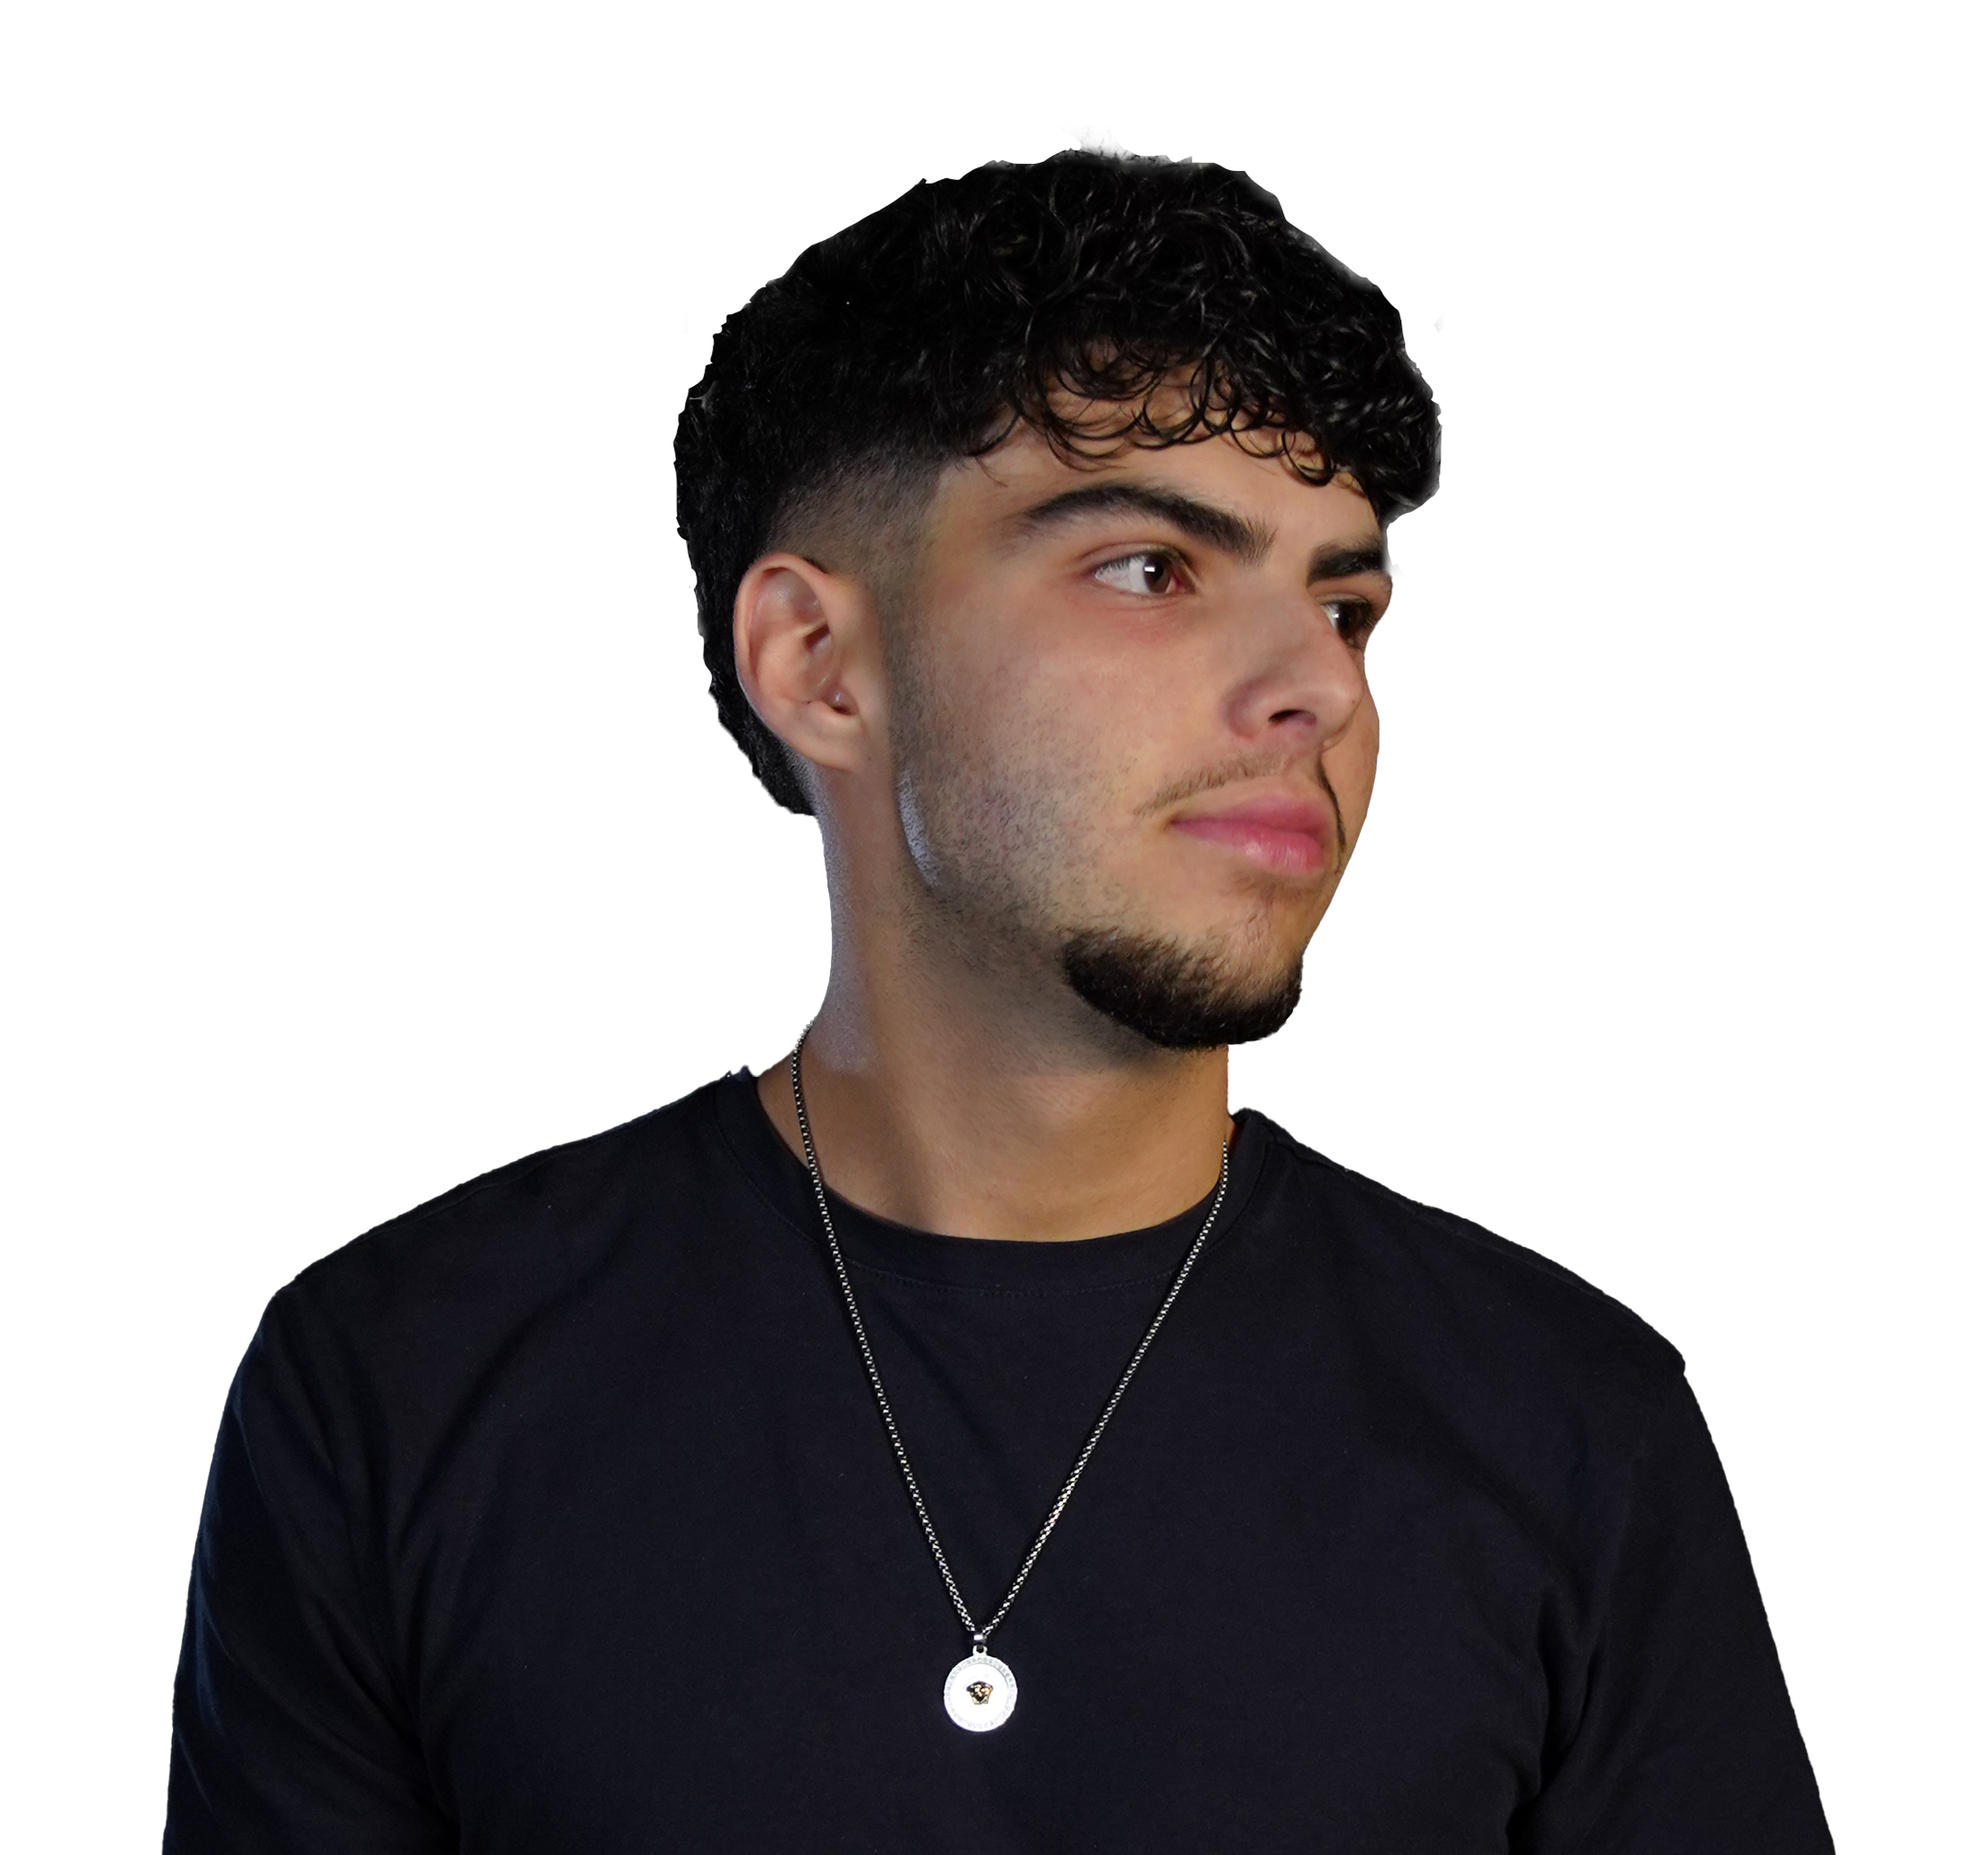
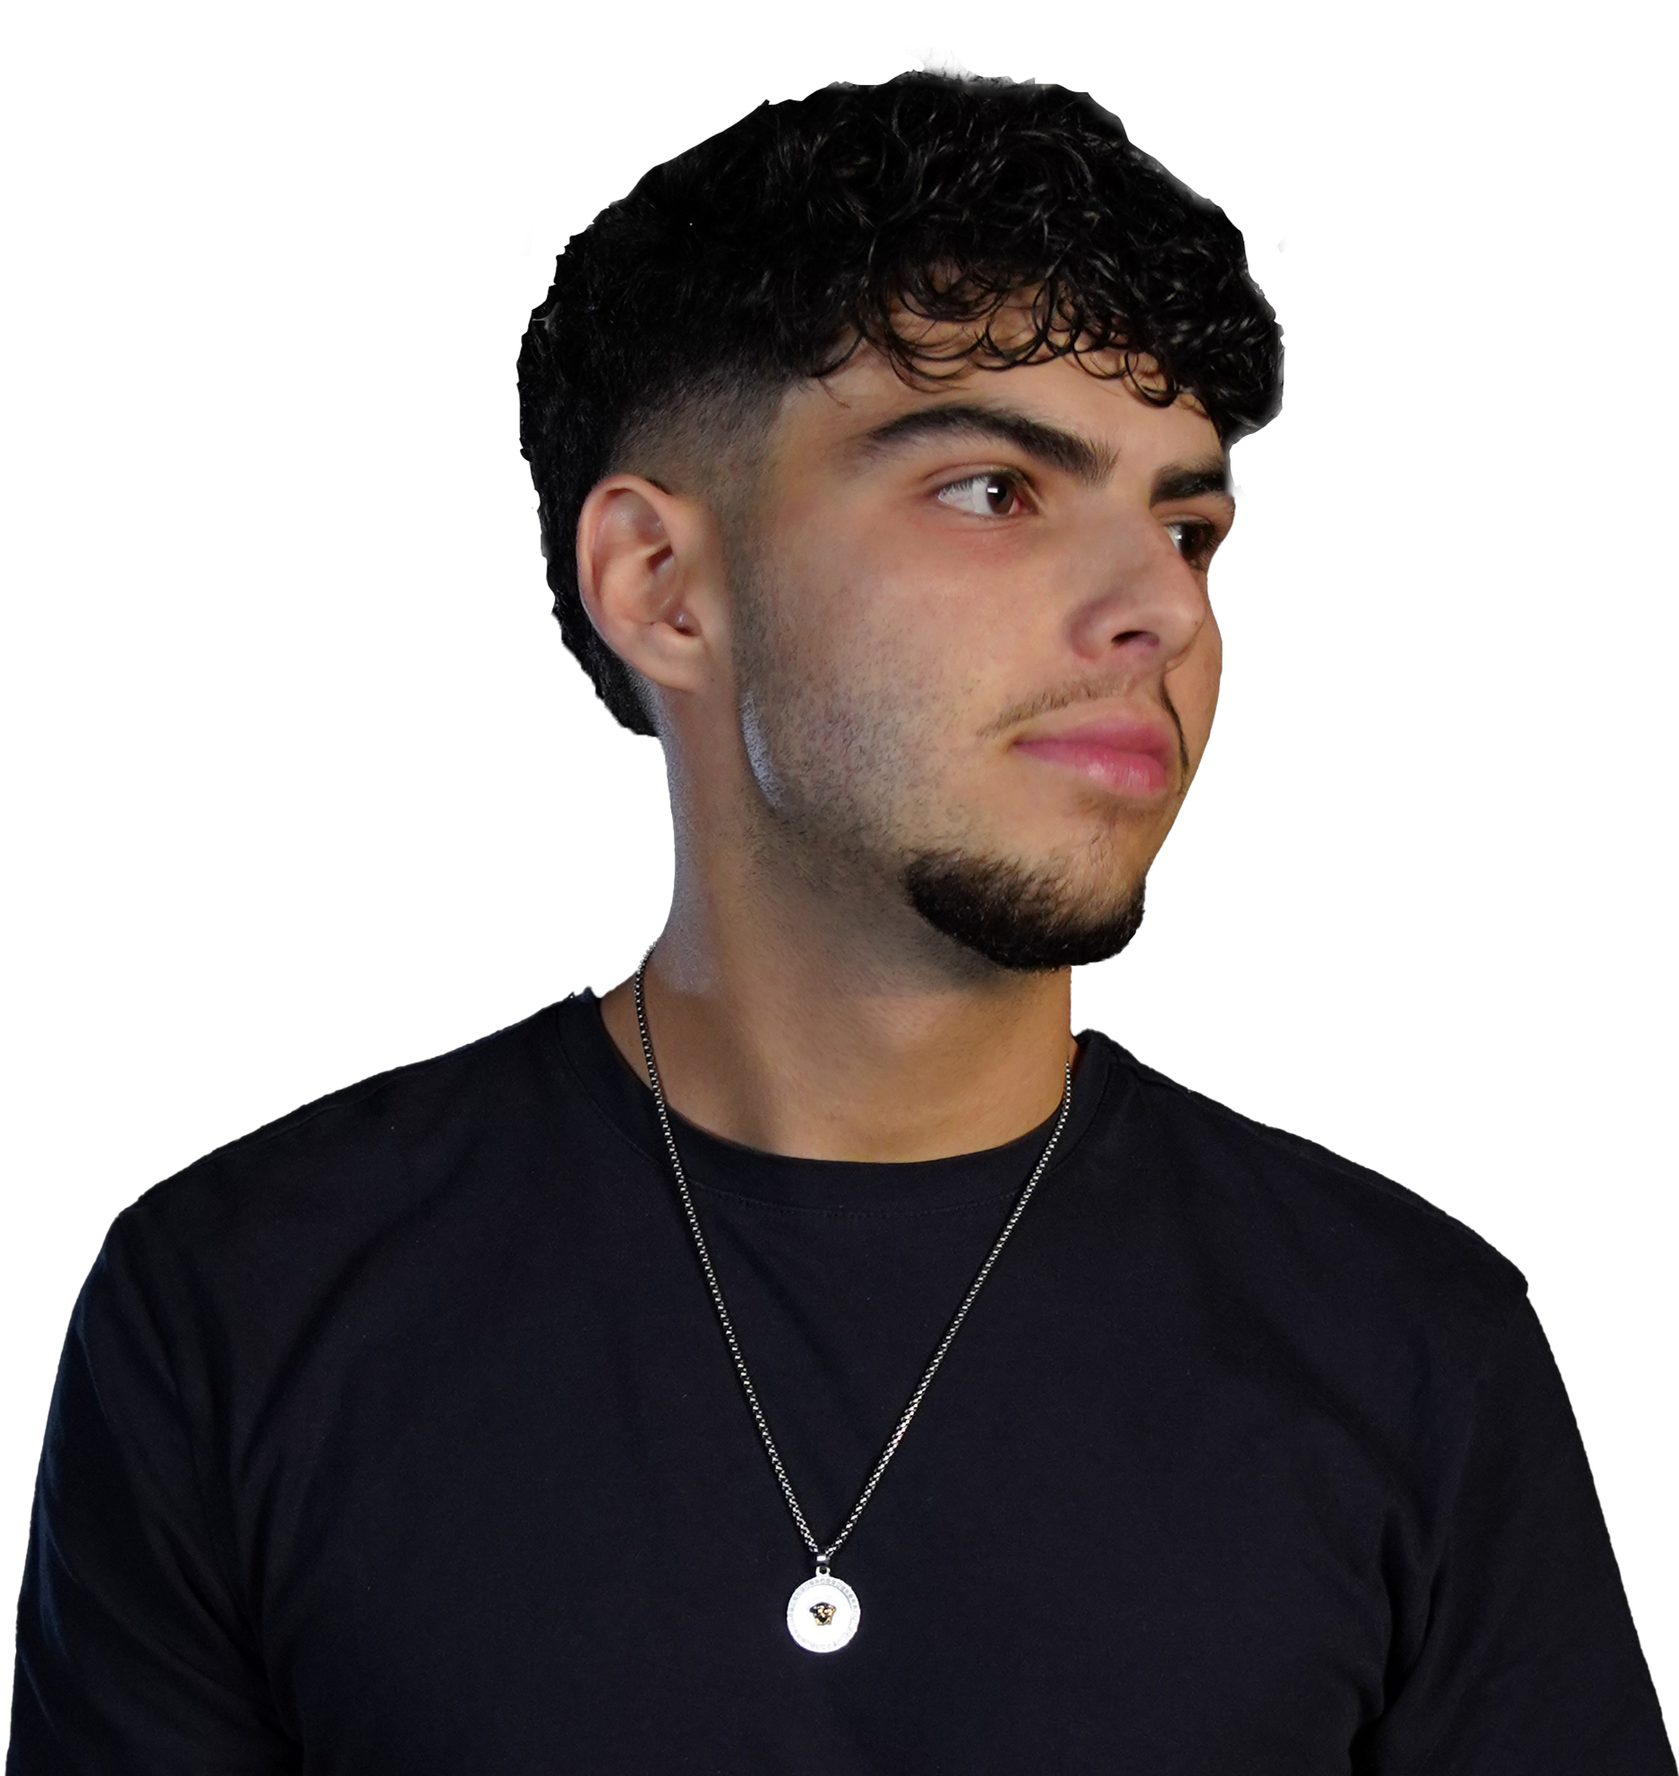
Page à propos section hero

diff --git a/src/apropos.html b/src/apropos.html
@@ -1,1 +1,18 @@
-{% include '_partials/_header.html' %} {% include '_partials/_footer.html' %}
+{% include '_partials/_header.html' %}
+
+<section class="hero-apropos">
+    <div class="wrapper">
+        <div class="hero__content">
+            <p class="surtitle">
+                Designer
+                <span>polyvalent</span>
+            </p>
+            <h1>Juan Corach</h1>
+        </div>
+        <div class="hero__media">
+            <img src="assets/images/photo-jc.png" alt="Photo de Juan Corach" />
+        </div>
+    </div>
+</section>
+
+{% include '_partials/_footer.html' %}

diff --git a/src/styles/components/apropos.scss b/src/styles/components/apropos.scss
@@ -13,3 +13,30 @@
         align-items: flex-start;
     }
 }
+
+.hero-apropos {
+    .wrapper {
+        position: relative;
+        height: 90vh;
+    }
+
+    .hero__content {
+        display: flex;
+        flex-direction: column;
+        justify-content: center;
+        height: 70%;
+    }
+
+    .hero__media {
+        position: absolute;
+        width: 60%;
+        bottom: 0;
+        right: 0;
+
+        img {
+            object-fit: cover;
+            width: 100%;
+            height: 100%;
+        }
+    }
+}
